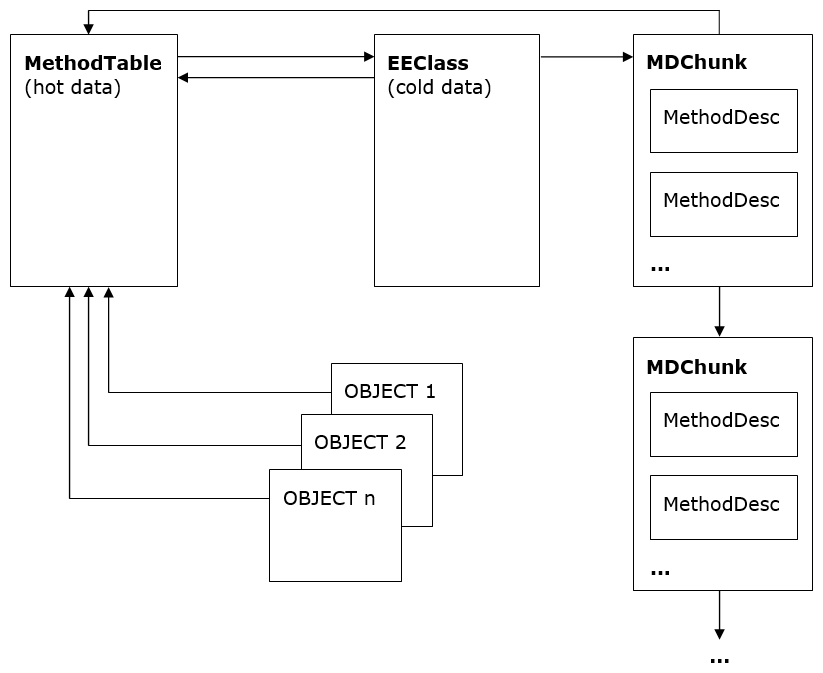
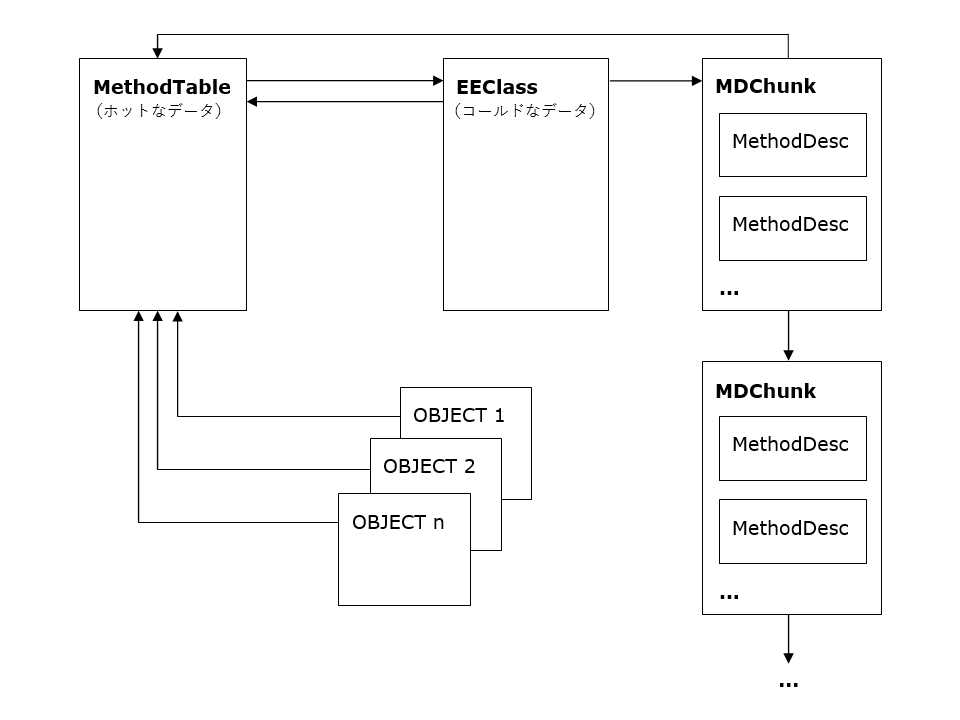
finished type-loader.md translation.

diff --git a/botr/type-loader.md b/botr/type-loader.md
@@ -1,0 +1,230 @@
+タイプローダーの設計
+===
+
+（これは https://github.com/dotnet/coreclr/blob/8d3936bff7ae46a5a964b15b5f0bc3eb8d4e32db/Documentation/botr/type-loader.md の日本語訳です。対象rev.は 8d3936b）
+
+Author: Ladi Prosek - 2007
+
+# はじめに
+
+クラスベースのオブジェクト指向システムにおいて、型（type）は、個々のインスタンスが含むデータと提供する機能を記述するテンプレートです。最初に型を定義しないと、オブジェクトは作成できません<sup>1</sup>。2つのオブジェクトが同じ型のインスタンスの場合、それらは同じ型であると言えます。いずれにせよ、全く同じメンバーのセットを定義しているということによって、オブジェクトの間に関係性が生まれることはありません。
+
+前の段落は典型的なC++システムについても言えます。CLRにとって必須のもう一つの機能は、完全な実行時型情報が使用可能なことです。マネージドコードを「マネージ」して、型安全な環境を提供するために、CLRはいかなるときでも任意のオブジェクトの型が分からなければなりません。そのような型情報は少ないコストですぐに使用可能でなければなりません。型のアイデンティティは非常に頻繁に問い合わせられると考えられるためです（たとえば、あらゆる型のキャストは、キャストが安全かつ実行可能であるかの検証のために、オブジェクトの型のアイデンティティを問い合わせることになります）。
+
+このパフォーマンス要件によって、辞書検索による方式は除外され、以下の高レベルのアーキテクチャが選択肢として残ります。
+
+![図1](images/typeloader-fig1.png)
+
+図1 抽象的な高レベルのオブジェクトの設計
+
+実際のインスタンスデータとは別に、各オブジェクトは、型を表現する構造体への単なるポインターである型IDを含みます。このコンセプトはC++のv-tableポインターによく似ていますが、我々が今、型（と呼び、この後詳細に説明するこの構造体は、単なるv-tableよりも多くのものを含んでいます。たとえば、型には「is-a」包含関係への問い合わせに回答可能なように、階層構造についての情報を含めなければなりません。
+
+<sup>1</sup> C#3.0には「匿名型」という機能があり、型を明示的に参照せずに、単にフィールドを直接列挙するだけでオブジェクトを定義できます。これについて誤解しないでください。この機能では、コンパイラによって背後で型が作成されています。
+
+## 1.1 関連資料
+
+[1] Martin Abadi, Luca Cardelli, A Theory of Objects, ISBN978-0387947754
+
+[2] Andrew Kennedy ([@andrewjkennedy](https://github.com/andrewjkennedy)), Don Syme ([@dsyme](https://github.com/dsyme)), [Design and Implementation of Generics for the .NET Common Language Runtime][generics-design]
+
+[generics-design]: http://research.microsoft.com/apps/pubs/default.aspx?id=64031
+
+[3] [ECMA Standard for the Common Language Infrastructure (CLI)](http://www.ecma-international.org/publications/standards/Ecma-335.htm)
+
+## 1.2 設計目標
+
+タイプローダー（クラスローダーと呼ばれることもありますが、クラスはタイプ（型）のサブセット、具体的には参照型を構成するに過ぎず、タイプローダーは値型も読み込むので、厳密に言うと正確ではありません）の最終的な目標は、読み込みを依頼されている型を表現するデータ構造を構築することです。タイプローダーが持つべき特性は次のとおりです。
+
+- 高速な型の検索（ルックアップ、[モジュール, トークン] => ハンドル の検索と [アセンブリ, 名前] => ハンドル の検索）。
+- 良好なワーキングセットサイズ、キャッシュヒット率、JIT後コードのパフォーマンスを達成する、最適化されたメモリレイアウト。
+- 型安全性。不正な型は読み込まれず、TypeLoadExceptionがスローされる。
+- 同時実行性。マルチスレッド化された環境でうまくスケールする。
+
+# 2 タイプローダーのアーキテクチャ
+
+タイプローダーのエントリポイントの数はそれほど多くありません。個々のエントリポイントのシグネチャは若干異なっていますが、すべてよく似たセマンティクスを持っています。それらは、メタデータ **トークン** または **名前** 文字列の形での、型／メンバー指定、そのトークンのスコープ（**モジュール** または **アセンブリ**）、そしてフラグのような追加情報を受けとります。エントリポイントは **ハンドル** の形で読み込んだエンティティを返します。
+
+一般的に、JITコンパイル中にタイプローダーへの呼び出しが多数行われます。次のコードを考えます。
+
+	object CreateClass()
+	{
+	    return new MyClass();
+	}
+
+ILでは、MyClassはメタデータトークンを使用して参照されます。実際のインスタンス化を扱う **JIT\_New** ヘルパーへの呼び出しを生成するために、JITは型を読み込みんでそのハンドルを返すようタイプローダーに依頼します。このハンドルはJIT後のコード内に即値として直接埋め込まれます。型とメンバーの解決と読み込みが一般的に実行時ではなくJIT時に行われるという事実は、次のコードのように、挙動について容易に混乱されがちであることの説明にもなります。
+
+	object CreateClass()
+	{
+	    try {
+	        return new MyClass();
+	    } catch (TypeLoadException) {
+	        return null;
+	    }
+	}
+
+**MyClass**の読み込みに失敗する、たとえばその型が別のアセンブリに定義されていて、最新のビルドではそのアセンブリが取り除かれていたような場合、このコードではまだ**TypeLoadException**がスローされます。なぜならば、catchブロックは実行されないものをcatchしないからです！ 例外はJITコンパイル中に発生し、その例外は**CreateClass**を呼び出してJITコンパイルを引き起こしたメソッドでのみcatchできます。さらに、インライン化のために、どこでJITコンパイルが行われるのかが常にはっきりしているとは限らないので、ユーザーは決定的な振る舞いについて期待も依存もすべきでありません。
+
+## キーとなるデータ構造
+
+CLR において最も広範に型を示すものは、**TypeHandle**です。これは**MethodTable**（**Systen.Object*や**List<string>**のような「普通」の型を表します）または**TypeDesc**（byref型、ポインター型、関数ポインター型、配列型、ジェネリック変数を表します）のいずれかへのポインターをカプセル化する抽象エンティティです。**TypeHandle**は型のアイデンティティを構成し、2つのハンドルはそれらが同じ型を表現している場合にのみ等しくなります。領域を節約するために、**TypeHandle**が**TypeDesc**を格納していることは、追加のフラグを使用するのではなく、ポインターの最下位から2つめのビットを1に設定する（すなわち、(ptr|2)とする）ことで示されます<sup>2</sup>。**TypeDesc**は「抽象」であり、以下の継承階層構造を持ちます。
+
+![図2](images/typeloader-fig2.png)
+
+図2 TypeDescの階層構造
+
+**TypeDesc**
+
+抽象的な型記述子。具象型としての記述子の型はフラグによって判別されます。
+
+**TypeVarTypeDesc**
+
+型変数、つまり**List<T>**や**Array.Sort<T>**の**T**を表します（後述するジェネリクスについてのパートを参照）。型変数は複数の型やメソッドの間で決して共有されないので、各変数はただ一つ所有者を持ちます。
+
+**FnPtrTypeDesc**
+
+関数ポインターを表し、本質的には戻り値の型とパラメーター群を参照する型ハンドル群の可変長リストです。C#によって関数ポインターがサポートされないため、この記述子を見ることはあまりありません。ただし、マネージドC++は関数ポインターを使用します。
+
+**ParamTypeDesc**
+
+この記述子はbyref型とポインター型を表します。byrefはC#の**ref**および**out**キーワードをメソッドのパラメーターに適用したもの<sup>3</sup>であるのに対し、ポインター型はアンセーフC#とマネージドC++で使用される、データへのアンマネージドポインターです。
+
+**ArrayTypeDesc**
+
+配列型を表します。これは **ParamTypeDesc** から派生します。配列は単一のパラメーター（要素の型）によってパラメータ化されるものでもあるためです。これは、パラメーターの数が可変であるジェネリック型のインスタンス化とは異なります。
+
+**MethodTable**
+
+これは、間違いなくCLRの中心となるデータ構造です。上記の分類のいずれかに当てはまらないあらゆる型（プリミティブ型と「オープン」「クローズド」両方のジェネリック型）を表します。MethodTableは、親の型、実装されたインターフェイス、v-tableのような、型の迅速な検索に必要なものをすべて含んでいます。
+
+**EEClass**
+
+**MethodTable**のデータは、ワーキングセットとキャッシュの利用の改善のために、「ホット」な構造体と「コールド」な構造体に分割されます。**MethodTable**自身は、プログラムの安定状態で必要となる「ホット」なデータのみを保存するためのものです。**EEClass**は、典型的には型の読み込み、JITコンパイル、またはリフレクションでのみ必要とされる「コールド」なデータを保存します。各**MethodTable**は1つの**EEClass**を指し示します。
+
+さらに、**EEClass**はジェネリック型間で共有されます。複数のジェネリック型の**MethodTable**が単一の**EEClass**を指し示すことができます。この共有により、**EEClass**に保存可能なデータについて追加の制約が生じます。
+
+**MethodDesc**
+
+素直に、この構造体はメソッドを記述しています。実際には、対応する**MethodDesc**のサブタイプを持ついくつかの派生型がありますが、それらのほとんどは、完全にこの文書の範囲外です。ジェネリクスで重要な役割を演じる**InstantiatedMethodDesc**というサブタイプがあることだけ言っておけば十分でしょう。詳細については、[**メソッド記述子の設計**](method-descriptor.md) を参照してください。
+
+**FieldDesc**
+
+**MethodDesc**のように、この構造体はフィールドを記述します。特定のCOM相互運用のシナリオを除き、EEはプロパティとイベントについてまったく相手にしません。それらは最終的にはメソッドとフィールドに行きつき、コンパイラとリフレクションが、糖衣構文的なエクスペリエンスを提供するためにそれらを生成、理解するだけだからです。
+
+<!-- 訳注：原文のinspectは文脈からポインタの逆参照と考えられる -->
+<sup>2</sup> これはデバッグには有用です。**TypeHandle**の値が2、6、A、またはEで終わる場合、それは**MethodTable**ではなく、かつその追加のビットを0にしなければ**TypeDesc**を得ることはできません。
+
+<sup>3</sup> **ref**と**out**の間の違いは、パラメーターの属性だけであることに注意してください。型システムの関心ごとに限って言えば、それらは両方とも同じ型です。
+
+## 2.1 読み込みレベル
+
+たとえばtypedef/typref/typespec**トークン**と**モジュール**によって識別される、特定の型の読み込みがタイプローダーに依頼されたとき、タイプローダーはすべての作業を一度に原子的に行うわけではありません。読み込み処理は複数のフェーズで行われます。その理由は、一般的に型は他の型に依存しており、他の型から参照可能になるときまでに完全に読み込み済となっている必要があるとすると、無限再帰やデッドロックを引き起こすためです。以下を考えます。
+
+	classA<T> : C<B<T>>
+	{ }
+
+	classB<T> : C<A<T>>
+	{ }
+
+	classC<T>
+	{ }
+
+これらは妥当な型定義であり、明らかに**A**は**B**に依存しており、**B**は**A**に依存しています。
+
+タイプローダーは最初に型を表現する構造体（群）を作成し、他の型を読み込むことなく取得できるデータを使用してそれらの構造体を初期化します。この「依存先のない」作業が完了すると、構造体（群）は他の場所から参照可能、一般的にはそれらの構造体へのポインターを別の構造体の中に組み入れられるようになります。その後で、タイプローダーは繰り返し手順を踏んで処理を進め、最終的に完全に読み込み済みの型になるまで、次々に情報を構造体（群）に入れていきます。上記の例では、**A**と**B** の基底型は他の型を含まない何かによって近似的に形成され、後から本物の値で置換されます。
+
+まさにこの途中まで読み込まれた状態は、CLASS\_LOAD\_BEGINで始まりCLASS\_LOADEDで終わり、その間に複数の中間レベルを持つ、いわゆる読み込みレベルによって記述されます。[classloadlevel.h](https://github.com/dotnet/coreclr/blob/master/src/vm/classloadlevel.h)ソースファイルには、個別の読み込みレベルについての豊富かつ有用なコメントがあります。型はNGENイメージに保存できますが、型を表現する構造体は、「復元処理（restoring）」と呼ばれる追加の処理なしに、メモリへの単純にマッピングや転送をすることはできません。型がNGENイメージから取り出され、復元が必要であるということも、それ用の読み込みレベルで表されます。
+
+読み込みレベルの詳細については、[『Design and Implementation of Generics for the .NET Common Language Runtime』][generics-design]を参照してください。
+
+## 2.2 ジェネリクス
+
+ジェネリクスのない世界では、すべてが上手く行き、みんな幸せです。すべての普通の（**TypeDesc**で表されない）型は1つの**MethodTable**を持ち、それは関連する**EEClass**を指し示し、その**EEClass**は**MethodTable**を指し返します。型のすべてのインスタンスはオフセット0、すなわち参照型のアドレスの位置にある最初のフィールドとして**MethodTable**へのポインターを保持します。領域を節約するために、その型で宣言されたメソッドを表す**MethodDesc**は、**EEClass**から指し示されるチャンクのリンクリストとして編成されます<sup>4</sup>。
+
+![図3](images/typeloader-fig3.png)
+
+図3 非ジェネリックメソッドを持つ非ジェネリック型
+
+<sup>4</sup> 言うまでもなく、マネージドコードが実行されるときに、チャンクからのルックアップでメソッドを呼び出すことはしません。メソッド呼び出しは大いに「ホット」な操作であり、通常は**MethodTable**内の情報にアクセスするだけで済みます。
+
+### 2.2.1 用語
+
+**ジェネリックパラメーター**
+
+別の型によって実体が置き換えられるプレースホルダーで、**List<T>**の宣言における**T**です。形式的型パラメーター（formal type parameter）と呼ばれることもあります。ジェネリックパラメーターは名前と、省略可能なジェネリック制約を持ちます。
+
+**ジェネリック実引数**
+
+ジェネリックパラメーターを実体として置き換える型で、**List<int>**の**int**です。ジェネリックパラメーターは実引数として使用されることもあることに注意してください。次のコードを考えます：
+
+	List<T> GetList<T>()
+	{
+	    return new List<T>();
+	}
+
+このメソッドはジェネリックパラメーター**T**を持ち、これがジェネリックリストクラスのジェネリック実引数として使用されています。
+
+**ジェネリック制約**
+
+ジェネリック実引数となり得るものについて、ジェネリックパラメーターによって指定される省略可能な要件。要件となる特性を持たない型で、ジェネリックパラメーターを実体として置き換えることはできません。これはタイプローダーによって強制されます。ジェネリック制約は3種類あります。
+
+1. 限定制約（special constraints）
+  - 参照型制約 - そのジェネリック実引数は参照型でなくてはなりません（値型であってはなりません）。この制約を表現するのに、C#では`class`キーワードが使用されます。
+
+			public class A<T> where T : class
+
+  - 値型制約 - そのジェネリック実引数は`System.Nullable<T>`でない値型でなければなりません。C#では`struct`キーワードを使用します。
+
+			public class A<T> where T : struct
+
+  - 既定のコンストラクター制約 - そのジェネリック実引数はpublicでパラメーターのないコンストラクターを持たなければなりません。C#では`new()`で表現されます。
+
+			public class A<T> where T : new()
+
+2. 基底型制約 - そのジェネリック実引数は、指定された非インターフェイス型から派生する（かその型そのもの）でなければなりません。基底型制約として、0または1の参照型のみを使用できることは言うまでもありません。
+
+		public class A<T> where T : EventArgs
+
+3. 実装済みインターフェイス制約 - そのジェネリック実引数は指定されたインターフェイス型を実装（かその型そのもの）でなければなりません。0以上のインターフェイスを指定できます。
+
+		public class A<T> where T : ICloneable, IComparable<T>
+
+上記の制約は暗黙的なANDで組み合わせられる、つまり、あるジェネリックパラメーターはある型から派生し、いくつかのインターフェイスを実装し、かつ既定のコンストラクターを持つように、制約を付与できます。ジェネリックパラメーターを宣言する型のすべてのジェネリックパラメーターは、制約を表現するために使用でき、それによってパラメーター間の相互依存を導入できます。例：
+
+	public class A<S, T, U> 
+		where S : T 
+		where T : IList<U> {
+	    void f<V>(V v) where V : S {}
+	}
+
+<!-- 訳注：インスタンス化ではニュアンスが違うので。インスタンス化物？ -->
+**インスタンシエーション（instantiation）**
+
+ジェネリック型またはジェネリックメソッドのジェネリックパラメーターについて、実体に置き換えられたジェネリック引数のリスト。読み込み済みのジェネリック型およびジェネリックメソッドは、それぞれインスタンシエーションを持ちます。
+
+**象徴インスタンシエーション（typical instantiation）**
+
+純粋に型またはメソッド自身の型パラメーターのみでなり、かつパラメーターの宣言順と同じ順序でのインスタンシエーションです。ジェネリック型およびジェネリックメソッドには、それぞれただ1つの典型インスタンシエーションが存在します。一般的に、誰かがオープンジェネリック型について議論するときには、その象徴インスタンシエーションを念頭においています。例：
+
+	public class A<S, T, U> {}
+
+C#の`typeof(A<,,>)`はldtoken A\'3にコンパイルされ、これによってCLR は**S**,**T**,**U**でインスタンス化された**A`3**を読み込みます。
+
+**正準インスタンシエーション（canonical instantiation）**
+
+すべてのジェネリック実引数が**System.\_\_Canon**であるインスタンシエーションです。**System.\_\_Canon**は**mscorlib**で定義される内部型で、その役割は、それが既知の型であるということと、ジェネリック実引数として使用され得る他のあらゆる型と区別されることだけです。正準インスタンシエーションされた型またはメソッドは、すべてのインスタンシエーションの代表として使用され、かつすべてのインスタンシエーションによって共有される情報を伝えます。明らかに、**System.\_\_Canon**が、個別のジェネリックパラメーターが持ちうる制約を一切満たせないので、制約チェック処理は特別なケースとなり、**System.\_\_Canon**を尊重して、制約違反を無視します。
+
+### 2.2.2 共有（sharing）
+
+ジェネリクスの到来により、ランタイムによって読み込まれる型の数が多くなりがちになります。異なるインスタンス化を伴うジェネリック型（たとえば**List&lt;string>**と**List&lt;object>**）はそれぞれの**MethodTable**を持つ異なる型ですが、共有可能な情報が無視できないくらい大量にあることがわかります。この共有によって、メモリのフットプリント、ひいてはパフォーマンスが改善されます。
+
+![図 4](images/typeloader-fig4.png)
+
+図 4 非ジェネリックメソッドを持つジェネリック型 - EEClassの共有
+
+現在、参照型を含むすべてのインスタンシエーションは同一の**EEClass**とその**MethodDesc**を共有します。これは、すべての参照が同じサイズ（4または8バイト）であり、したがってこれらの型のレイアウトがすべて同一であるために実現できます。上記の図は**List&lt;object>**と**List&lt;string>**について、このことを説明しています。正準**MethodTable**は最初の参照型インスタンシエーションが読み込まれる前に自動的に作成され、非仮想スロットや**RemotableMethodInfo**のような、ホットであるがインスタンシエーション固有でないデータを含みます。値型のみを含むインスタンシエーションは共有されず、そのようにインスタンシエーションされた型たちは自前の共有されない**EEClass**を得ます。
+
+ここまで読み込まれたジェネリック型を表す**MethodTable**は、ローダーモジュールによって所有されるハッシュテーブルにキャッシュされます<sup>5</sup>。このハッシュテーブルは新しいインスタンシエーションが構築される前に調査され、同じ型を表す**MethodTable**のインスタンスが2つ以上できないようにします。
+
+ジェネリックの共有について詳細情報は、[『Design and Implementation of Generics for the .NET Common Language Runtime』][generics-design]を参照してください。
+
+<sup>5</sup> NGENイメージから読み込まれた型の場合、若干複雑になります。
